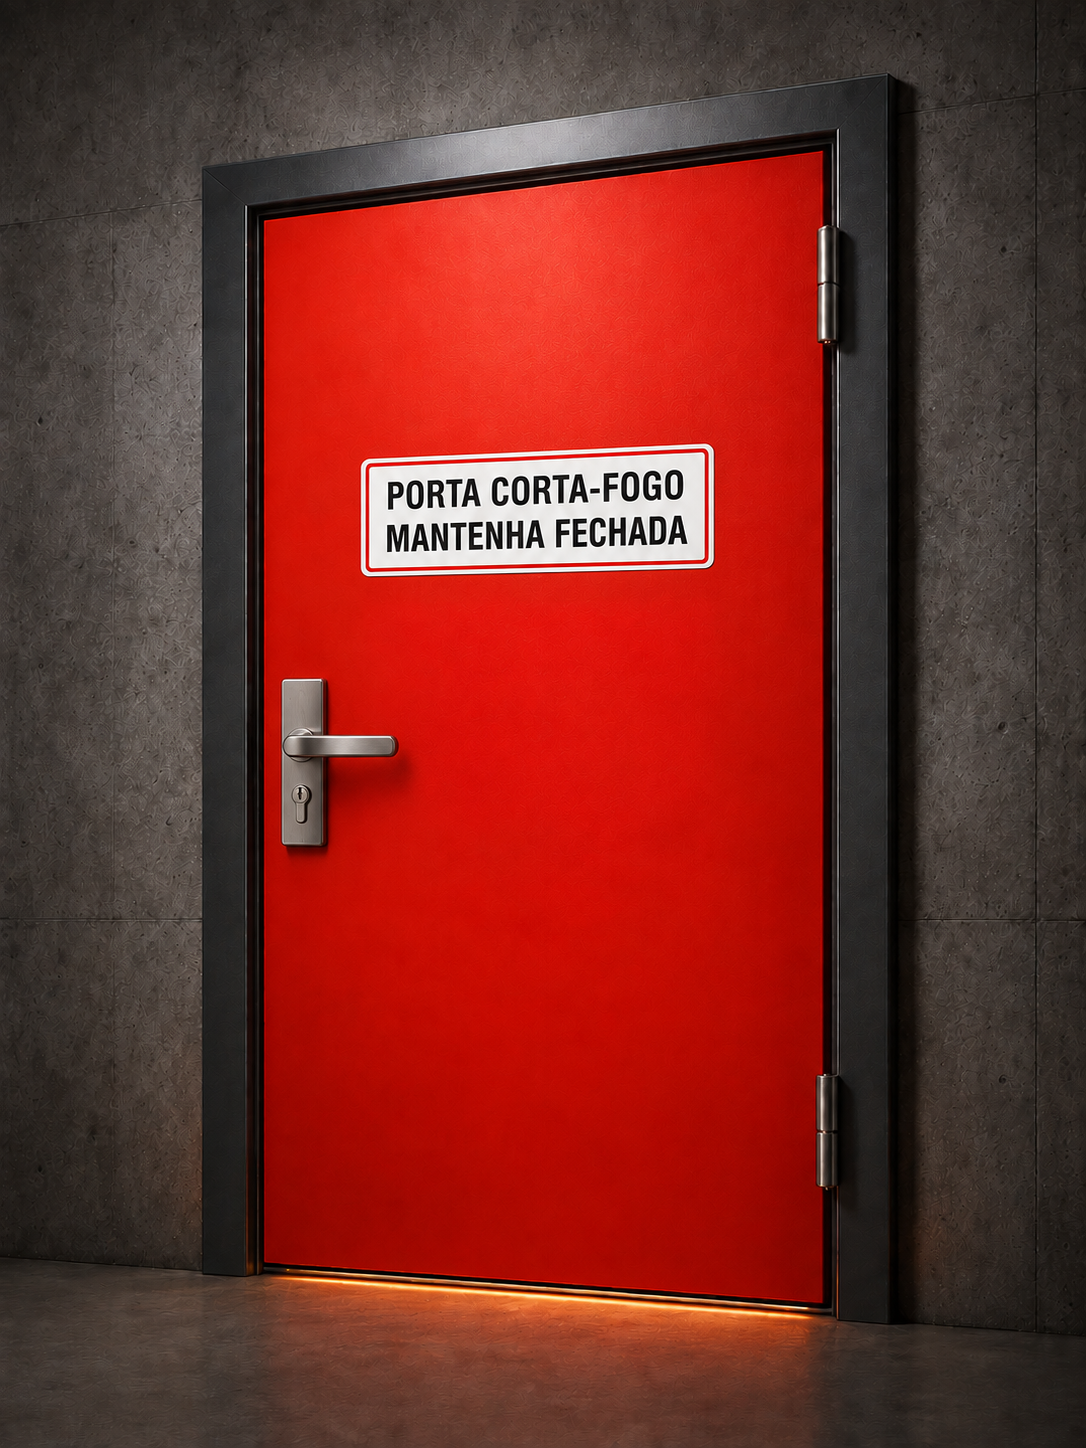
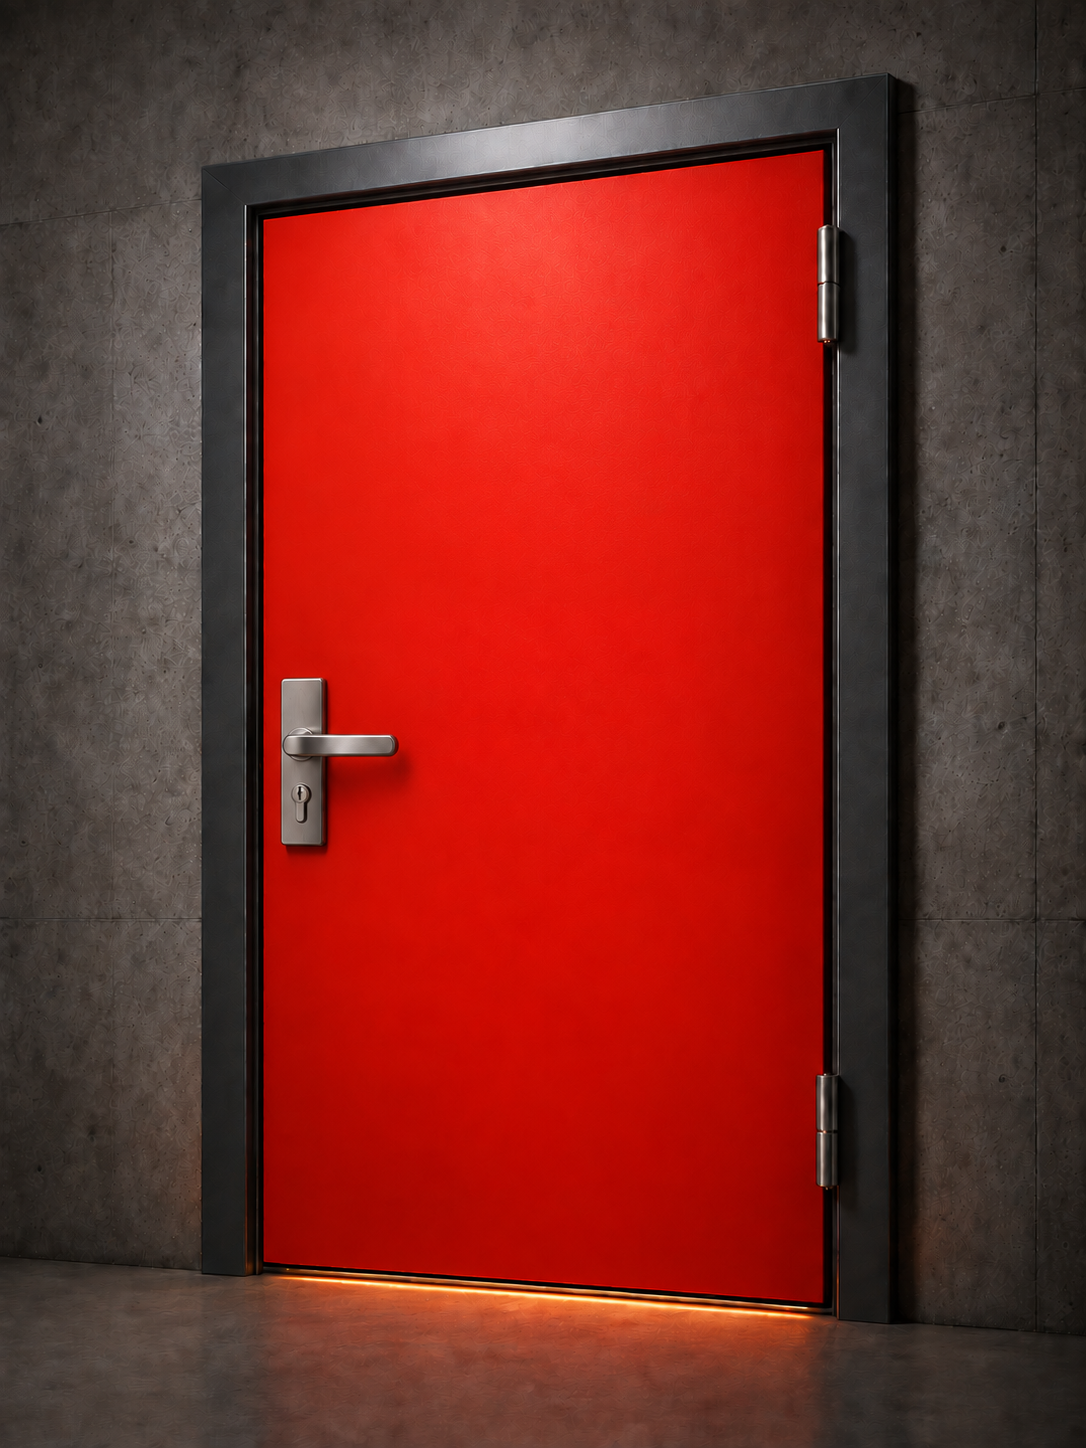
fix: remove sign from P60 door image

diff --git a/src/app/app.ts b/src/app/app.ts
@@ -55,7 +55,7 @@ export class App {
     this.mobileMenuOpen.set(false);
   }
   protected readonly doorDetails = {
-    P60: { minutes: 60, use: 'Modelo fora de produção no momento. Indisponível para orçamento.', image: '/assets/images/hero/megashield-macaneta.webp' },
+    P60: { minutes: 60, use: 'Modelo fora de produção no momento. Indisponível para orçamento.', image: '/assets/images/hero/megashield-macaneta-sem-placa.webp' },
     P90: { minutes: 90, use: 'Conjunto simples com folha galvanizada e núcleo de fibra cerâmica, conforme memorial MD 01 PF 90.', image: '/assets/images/hero/megashield-red.webp' },
     P120: { minutes: 120, use: 'Conjunto simples com folha galvanizada sem pintura e núcleo de fibra cerâmica, conforme memorial MD 01 PF 120.', image: '/assets/images/hero/megashield-red.webp' },
   };
@@ -76,7 +76,7 @@ export class App {
     },
   };
   protected readonly allContactProducts = [
-    { name: 'MegaShield P60', title: 'Porta corta-fogo · 60 min', image: '/assets/images/hero/megashield-macaneta.webp' },
+    { name: 'MegaShield P60', title: 'Porta corta-fogo · 60 min', image: '/assets/images/hero/megashield-macaneta-sem-placa.webp' },
     { name: 'MegaShield P90', title: 'Classificação pretendida P90', image: '/assets/images/hero/megashield-red.webp' },
     { name: 'MegaShield P120', title: 'Classificação pretendida P120', image: '/assets/images/hero/megashield-red.webp' },
     { name: 'MegaHose', title: 'Mangueira de incêndio', image: '/assets/images/products/megahose-hd.webp' },
@@ -94,7 +94,7 @@ export class App {
     { title: 'Batente de aço', text: 'Estrutura robusta que assegura alinhamento, fixação e vedação eficiente da porta.', x: 78, y: 20, zoom: '78% 22%' },
     { title: 'Dobradiças de alto desempenho', text: 'Projetadas para suportar uso intenso e garantir abertura suave e segura por longos períodos.', x: 73, y: 31, zoom: '74% 31%' },
     { title: 'Barra antipânico', text: 'O cliente pode escolher o tipo de barra antipânico conforme a aplicação e as especificações do projeto.', x: 52, y: 58, zoom: '52% 58%' },
-    { title: 'Fechadura com maçaneta', text: 'Fechadura com maçaneta tipo alavanca para portas de casa de máquinas. O cliente pode optar por barra antipânico e escolher o tipo conforme as especificações do projeto.', x: 30, y: 52, zoom: '23% 56%', image: '/assets/images/hero/megashield-macaneta.webp', size: '280%' },
+    { title: 'Fechadura com maçaneta', text: 'Fechadura com maçaneta tipo alavanca para portas de casa de máquinas. O cliente pode optar por barra antipânico e escolher o tipo conforme as especificações do projeto.', x: 30, y: 52, zoom: '23% 56%', image: '/assets/images/hero/megashield-macaneta-sem-placa.webp', size: '280%' },
     { title: 'Vedação e acabamento', text: 'Vedações intumescentes e acabamentos que garantem estanqueidade e proteção eficaz.', x: 74, y: 74, zoom: '75% 74%' },
     { title: 'Sinalização', text: 'Placa de identificação: PORTA CORTA-FOGO — MANTENHA FECHADA. Orienta os usuários a manter a porta fechada.', x: 50, y: 35, zoom: 'center', image: '/assets/images/products/sinalizacao-porta.svg', size: '92%' },
     { title: 'Fixação e instalação técnica', text: 'Sistema de fixação seguro e orientações técnicas para instalação correta e duradoura.', x: 76, y: 88, zoom: '76% 88%' },
@@ -136,7 +136,7 @@ export class App {
 
   protected componentDoorImage(): string {
     return this.selectedDoor() === 'P60' && this.selectedComponent() !== 3
-      ? '/assets/images/hero/megashield-macaneta.webp'
+      ? '/assets/images/hero/megashield-macaneta-sem-placa.webp'
       : '/assets/images/hero/megashield-red.webp';
   }
 

diff --git a/src/app/app.html b/src/app/app.html
@@ -161,7 +161,7 @@
           </div>
           <div class="mega-door-options">
             <article>
-              <img width="1086" height="1448" loading="lazy" decoding="async" src="/assets/images/hero/megashield-macaneta.webp" alt="MegaShield P60 vermelha com maçaneta" />
+              <img width="1086" height="1448" loading="lazy" decoding="async" src="/assets/images/hero/megashield-macaneta-sem-placa.webp" alt="MegaShield P60 vermelha com maçaneta" />
               <div>
                 <b>MegaShield P60</b>
                 <h4>Modelo P60</h4>
